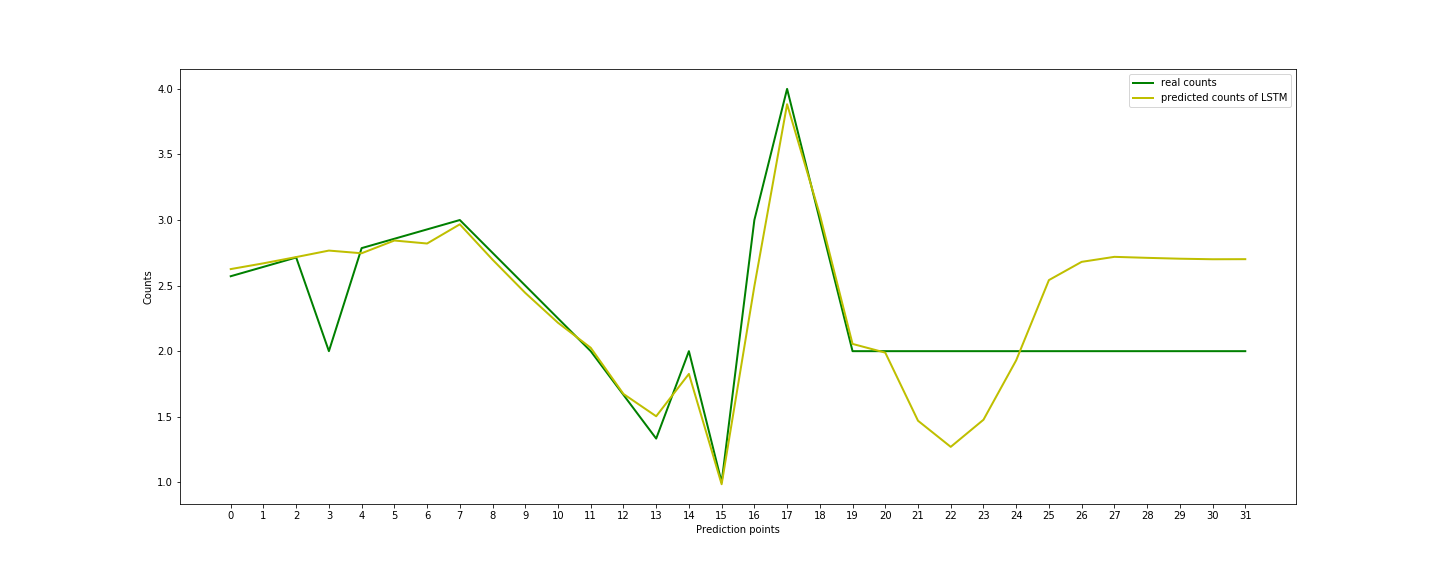
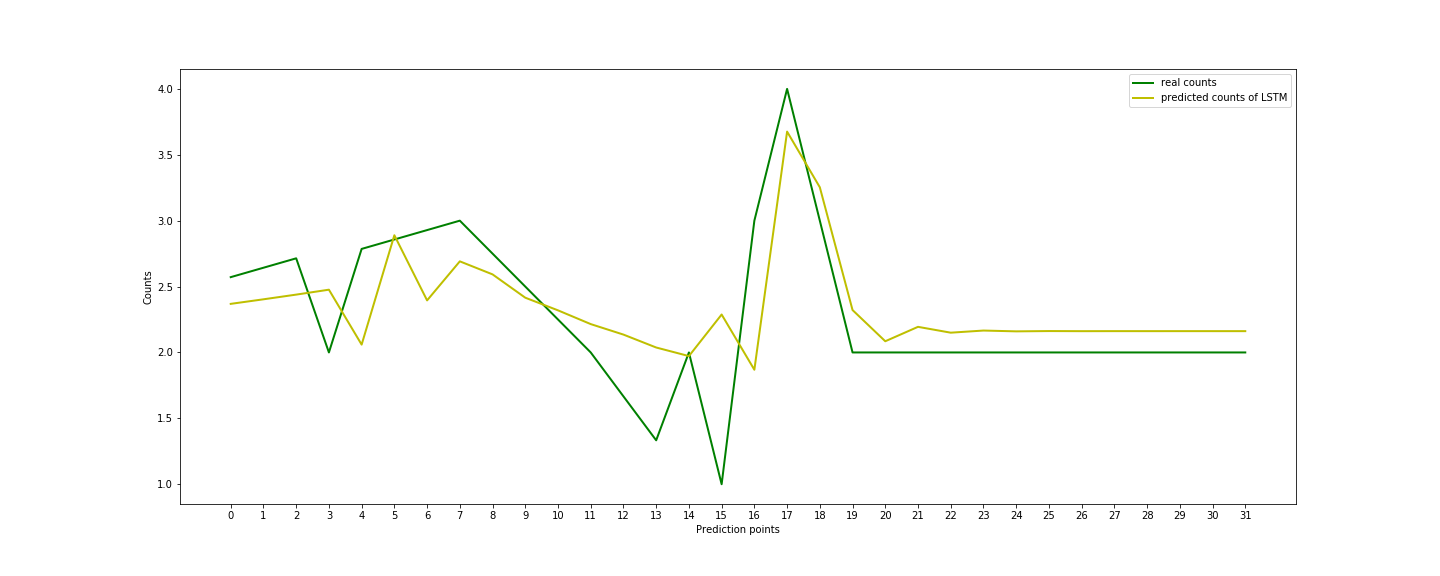
modified LSTM.py

diff --git a/Tuo_workingfolder/LSTM.py b/Tuo_workingfolder/LSTM.py
@@ -10,64 +10,7 @@ import torch
 import torch.nn as nn
 from torch.autograd import Variable
 from sklearn.preprocessing import MinMaxScaler
-
-with open('DynamoDBtoCSV-master/config.json') as f:
-    Tuo_authentications = json.load(f)
-
-
-def run_query(query, s3_output):
-    client = boto3.client('athena',
-                           aws_access_key_id = Tuo_authentications['accessKeyId'],
-                           aws_secret_access_key = Tuo_authentications['secretAccessKey'],
-                           region_name = Tuo_authentications["region"])
-    response = client.start_query_execution(
-        QueryString = query,
-        QueryExecutionContext = {
-          'Database': 'default'
-        },
-        ResultConfiguration = {
-            'OutputLocation': s3_output,
-            'EncryptionConfiguration': {
-                'EncryptionOption': 'SSE_S3'
-            }
-        }
-        
-    )
-    print('Execution ID: ' + response['QueryExecutionId'])
-    return response
-
-
-s3_output = 's3://tuo-bucket/playing'
-
-query = "select * from adomni_audience_segment where id='{ID}';"
-
-params = {"ID":"740"}
-
-QueryResponse = run_query(query.format(**params), s3_output)
-QueryExecutionId = QueryResponse['QueryExecutionId']
-
-
-with open('DynamoDBtoCSV-master/config.json') as f:
-    Tuo_authentications = json.load(f)
-
-dynamodb = boto3.resource('dynamodb',
-                           aws_access_key_id = Tuo_authentications['accessKeyId'],
-                           aws_secret_access_key = Tuo_authentications['secretAccessKey'],
-                           region_name = Tuo_authentications["region"]
-)
-
-
-table = dynamodb.Table('machine_learning')
-
-response = table.query(
-    KeyConditionExpression=Key('billboard_audience_segment_id').eq('b01186c0cdbde739e62d794f13792c36623')
-)
-data = response['Items']
-
-df = pd.DataFrame(data)
-
-training_set = df.iloc[:,1].values
-training_set = [[float(i)] for i in training_set]
+from sklearn.metrics import mean_squared_error
 
 def sliding_windows(data, seq_length):
     x = []
@@ -81,23 +24,13 @@ def sliding_windows(data, seq_length):
 
     return np.array(x),np.array(y)
 
-sc = MinMaxScaler()
-training_data = sc.fit_transform(training_set)
+def sliding_final_windows(data, seq_length):
+    x = []
 
-seq_length = 20
-x, y = sliding_windows(training_data, seq_length)
+    _x = data[len(data) - seq_length:len(data)]
+    x.append(_x)
 
-train_size = int(len(y) * 0.67)
-test_size = len(y) - train_size
-
-dataX = Variable(torch.Tensor(np.array(x)))
-dataY = Variable(torch.Tensor(np.array(y)))
-
-trainX = Variable(torch.Tensor(np.array(x[0:train_size])))
-trainY = Variable(torch.Tensor(np.array(y[0:train_size])))
-
-testX = Variable(torch.Tensor(np.array(x[train_size:len(x)])))
-testY = Variable(torch.Tensor(np.array(y[train_size:len(y)])))
+    return np.array(x)
 
 class LSTM(nn.Module):
 
@@ -130,59 +63,94 @@ class LSTM(nn.Module):
         
         return out
 
-num_epochs = 2000
-learning_rate = 0.01
+def get_predicted_count(billboardhash, segment_id):
+    with open('DynamoDBtoCSV-master/config.json') as f:
+        Tuo_authentications = json.load(f)
 
-input_size = 1
-hidden_size = 2
-num_layers = 1
+    dynamodb = boto3.resource('dynamodb',
+                               aws_access_key_id = Tuo_authentications['accessKeyId'],
+                               aws_secret_access_key = Tuo_authentications['secretAccessKey'],
+                               region_name = Tuo_authentications["region"]
+    )
 
-num_classes = 1
+    table = dynamodb.Table('machine_learning')
 
-lstm = LSTM(num_classes, input_size, hidden_size, num_layers)
+    billboard_audience_segment_id = ''
+    billboard_audience_segment_id += billboardhash
+    billboard_audience_segment_id += segment_id
+    response = table.query(
+        KeyConditionExpression=Key('billboard_audience_segment_id').eq(billboard_audience_segment_id)
+    )
+    data = response['Items']
+    df = pd.DataFrame(data)
 
-criterion = torch.nn.MSELoss()    # mean-squared error for regression
-optimizer = torch.optim.Adam(lstm.parameters(), lr=learning_rate)
-#optimizer = torch.optim.SGD(lstm.parameters(), lr=learning_rate)
-
-# Train the model
-for epoch in range(num_epochs):
-    outputs = lstm(trainX)
-    optimizer.zero_grad()
-    
-    # obtain the loss function
-    loss = criterion(outputs, trainY)
-    
-    loss.backward()
-    
-    optimizer.step()
-    if epoch % 100 == 0:
-        print("Epoch: %d, loss: %1.5f" % (epoch, loss.item()))
-
-lstm.eval()
-train_predict = lstm(dataX)
-
-data_predict = train_predict.data.numpy()
-dataY_plot = dataY.data.numpy()
-
-data_predict = sc.inverse_transform(data_predict)
-dataY_plot = sc.inverse_transform(dataY_plot)
-
-plt.figure(figsize=(20,8))
-
-print(len(dataX))
-plt.plot(dataY_plot, "g", label="real counts", linewidth=2.0)
-plt.plot(data_predict, "y", label="predicted counts of LSTM", linewidth=2.0)
+    training_set = df.iloc[:,1].values
+    training_set = [[float(i)] for i in training_set]
 
 
-plt.xticks(range(len(dataY_plot)))
-plt.xlabel('Prediction points')
-plt.ylabel('Counts')
-plt.legend(loc="best")
-# plt.suptitle('Time-Series Prediction')
-plt.savefig("Time-Series Prediction.png")
-plt.show()
 
-from sklearn.metrics import mean_squared_error
-mse = mean_squared_error(dataY_plot, data_predict)
-print("RMSE:", np.sqrt(mse))
+    sc = MinMaxScaler()
+    training_data = sc.fit_transform(training_set)
+
+    seq_length = 20
+    x, y = sliding_windows(training_data, seq_length)
+
+    train_size = int(len(y) * 0.67)
+    test_size = len(y) - train_size
+
+    dataX = Variable(torch.Tensor(np.array(x)))
+    dataY = Variable(torch.Tensor(np.array(y)))
+
+    trainX = Variable(torch.Tensor(np.array(x[0:train_size])))
+    trainY = Variable(torch.Tensor(np.array(y[0:train_size])))
+
+
+    num_epochs = 2000
+    learning_rate = 0.01
+
+    input_size = 1
+    hidden_size = 2
+    num_layers = 1
+
+    num_classes = 1
+
+    lstm = LSTM(num_classes, input_size, hidden_size, num_layers)
+
+    criterion = torch.nn.MSELoss()    # mean-squared error for regression
+    optimizer = torch.optim.Adam(lstm.parameters(), lr=learning_rate)
+    #optimizer = torch.optim.SGD(lstm.parameters(), lr=learning_rate)
+
+    # Train the model
+    for epoch in range(num_epochs):
+        outputs = lstm(trainX)
+        optimizer.zero_grad()
+        
+        # obtain the loss function
+        loss = criterion(outputs, trainY)
+        
+        loss.backward()
+        
+        optimizer.step()
+        # if epoch % 100 == 0:
+        #     print("Epoch: %d, loss: %1.5f" % (epoch, loss.item()))
+
+    lstm.eval()
+    train_predict = lstm(dataX)
+
+    data_predict = train_predict.data.numpy()
+    dataY_plot = dataY.data.numpy()
+
+    data_predict = sc.inverse_transform(data_predict)
+    dataY_plot = sc.inverse_transform(dataY_plot)
+
+    rmse = np.sqrt(mean_squared_error(dataY_plot, data_predict))
+
+
+    final_x = sliding_final_windows(training_data, seq_length)
+    final_dataX = Variable(torch.Tensor(np.array(final_x)))
+
+    final_predict = lstm(final_dataX)
+
+    predicted_score = sc.inverse_transform(final_predict.data.numpy())[0][0]
+
+    return predicted_score, rmse
